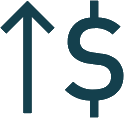
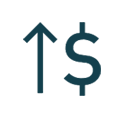
Reference scroll

diff --git a/src/components/MainContent.jsx b/src/components/MainContent.jsx
@@ -1,12 +1,16 @@
-import { useEffect, useState } from "react";
+import { useEffect, useState, useRef } from "react";
 import "../styles/MainContent.css";
 
 import RentalCard from "./RentalCard";
 import SearchBar from "./SearchBar";
+import AscSortIcon from "../assets/asc-sort.png";
+import DescSortIcon from "../assets/desc-sort.png";
 
-const MainContent = ({ apartList, setApartList }) => {
+const MainContent = ({ apartList, setApartList, modifiedID }) => {
   const [searchStr, setSearchStr] = useState();
   const [filteredApts, setFilteredApts] = useState([...apartList]);
+  const [ascSort, setAscSort] = useState(true);
+  const itemRefs = useRef({});
 
   useEffect(() => {
     let tempApts = [...apartList];
@@ -20,10 +24,33 @@ const MainContent = ({ apartList, setApartList }) => {
     setFilteredApts([...tempApts]);
   }, [searchStr, apartList]);
 
+  useEffect(() => {
+    if (modifiedID) {
+      let latestApartment = apartList.find((oneApartment) => {
+        return oneApartment.id === modifiedID;
+      });
+      if (latestApartment && itemRefs.current[latestApartment.id]) {
+        itemRefs.current[latestApartment.id].scrollIntoView({
+          behavior: "smooth",
+          block: "start",
+        });
+      }
+    }
+  }, [modifiedID]);
+
   return (
     <div className="main-content">
       <div className="search-area">
         <SearchBar searchStr={searchStr} setSearchStr={setSearchStr} />
+        <div
+          className="sort-button"
+          style={{
+            backgroundImage: `url(${ascSort ? AscSortIcon : DescSortIcon})`,
+          }}
+          onClick={() => {
+            setAscSort(!ascSort);
+          }}
+        ></div>
       </div>
 
       <div className="main-rental-list">
@@ -34,6 +61,7 @@ const MainContent = ({ apartList, setApartList }) => {
               apartment={apartment}
               apartList={apartList}
               setApartList={setApartList}
+              ref={(el) => (itemRefs.current[apartment.id] = el)}
             />
           );
         })}

diff --git a/src/components/AddNewListing.jsx b/src/components/AddNewListing.jsx
@@ -2,8 +2,7 @@ import React from "react";
 import { useState } from "react";
 import { useNavigate } from "react-router-dom";
 
-const AddNewListing = ({ apartList, setApartList }) => {
-  /*@Teresa : Add all the fields here & change the form too with formData.xyzFieldname & onChange event to handleChange. I have added the correct event below*/
+const AddNewListing = ({ apartList, setApartList, setModifiedID }) => {
   const [formData, setFormData] = useState({
     picture_url: "",
     name: "",
@@ -35,6 +34,7 @@ const AddNewListing = ({ apartList, setApartList }) => {
     formData.id = apartList.length + 2;
 
     setApartList([...apartList, formData]);
+    setModifiedID(formData.id);
     navigate("/");
   }
   return (
@@ -217,6 +217,8 @@ const AddNewListing = ({ apartList, setApartList }) => {
                 type="number"
                 min={1}
                 max={2000}
+                step="0.01"
+                pattern="^\d+(?:\.\d{1,2})?$"
                 id="price"
                 name="price"
                 placeholder="Price per night"
@@ -289,6 +291,8 @@ const AddNewListing = ({ apartList, setApartList }) => {
                 type="number"
                 min={1}
                 max={5}
+                step="0.01"
+                pattern="^\d+(?:\.\d{1,2})?$"
                 id="review_scores_rating"
                 name="review_scores_rating"
                 placeholder="Review Scores Rating"

diff --git a/src/components/SearchBar.jsx b/src/components/SearchBar.jsx
@@ -1,29 +1,20 @@
-import { useState } from "react";
-
 const SearchBar = ({ searchStr, setSearchStr, hasResults }) => {
-  /*@Teresa : implement the search last as I found it challanging to avoid filtering out the main list. Tips below
-  1. take search string as a prop from MainContent
-  2. search string is a state variable in MainContent
-  3. A function in MainContent to - create a Filtered arr from the search string 
-  4. Filtered arr is shown in MainContent but not passed to edit & delete.
-  5. We apply filter again when we render MainContent so may be filter in useEffect*/
-
   return (
-    <div>
-      <input
-        type="text"
-        placeholder="Search"
-        className="search-bar"
-        value={searchStr}
-        onChange={(e) => setSearchStr(e.target.value)}
-      />
-      {/* {!hasResults && searchStr && (
-        <p className="error-message">
-          Nada in this cozy corner—try adjusting!”
-        </p>
-      )} */}
-    </div>
+    <input
+      type="text"
+      placeholder="Search"
+      className="search-bar"
+      value={searchStr}
+      onChange={(e) => setSearchStr(e.target.value)}
+    />
   );
 };
 
 export default SearchBar;
+/*{
+   {!hasResults && searchStr && (
+        <p className="error-message">
+          Nada in this cozy corner—try adjusting!”
+        </p>
+      )} 
+}*/

diff --git a/src/styles/MainContent.css b/src/styles/MainContent.css
@@ -12,6 +12,21 @@
   justify-content: center;
 }
 
+.sort-button {
+  margin-left: 5px;
+  height: 40px;
+  width: 40px;
+  background-repeat: no-repeat;
+  background-size: 40px;
+  border-radius: 10px;
+  background-color: #a2b39c2a;
+  box-shadow: 0 4px 8px 0 rgba(0, 0, 0, 0.2);
+}
+
+.sort-button:hover {
+  transform: scale(1.1);
+}
+
 .search-bar {
   background-image: url("../assets/search.jpg");
   background-repeat: no-repeat;
@@ -344,6 +359,19 @@
     width: 16%;
   }
 
+  .delete-button {
+    background-size: 30px;
+    height: 30px;
+    width: 30px;
+  }
+
+  .edit-button {
+    right: 25px;
+    background-size: 30px;
+
+    height: 30px;
+    width: 30px;
+  }
   .rental-details {
     align-items: center;
     width: 100%;
@@ -390,10 +418,27 @@
   .col-field {
     width: 60%;
   }
+
+  .search-bar {
+    width: 70%;
+  }
 }
 
 /*Tablet Screen*/
 @media screen and (max-device-width: 768px) and (min-width: 426px) {
+  .delete-button {
+    background-size: 25px;
+    height: 25px;
+    width: 25px;
+  }
+
+  .edit-button {
+    right: 20px;
+    background-size: 25px;
+
+    height: 25px;
+    width: 25px;
+  }
   .rental-details {
     align-items: center;
     width: 100%;
@@ -430,6 +475,9 @@
     width: 30%;
   }
   .col-field {
+    width: 70%;
+  }
+  .search-bar {
     width: 70%;
   }
 }

diff --git a/src/App.jsx b/src/App.jsx
@@ -19,6 +19,7 @@ import Footer from "./components/Footer";
 
 function App() {
   const [apartList, setApartList] = useState(ApartmentListings);
+  const [modifiedID, setModifiedID] = useState(0);
 
   return (
     <div className="App">
@@ -31,7 +32,11 @@ function App() {
           <Route
             path="/"
             element={
-              <MainContent apartList={apartList} setApartList={setApartList} />
+              <MainContent
+                apartList={apartList}
+                setApartList={setApartList}
+                modifiedID={modifiedID}
+              />
             }
           />
 
@@ -45,6 +50,7 @@ function App() {
               <AddNewListing
                 apartList={apartList}
                 setApartList={setApartList}
+                setModifiedID={setModifiedID}
               />
             }
           />
@@ -54,6 +60,7 @@ function App() {
               <UpdateListing
                 apartList={apartList}
                 setApartList={setApartList}
+                setModifiedID={setModifiedID}
               />
             }
           />

diff --git a/src/components/RentalCard.jsx b/src/components/RentalCard.jsx
@@ -1,11 +1,11 @@
-import React from "react";
+import { forwardRef } from "react";
 import EditButton from "./EditButton";
 import DeleteButton from "./DeleteButton";
 import { Link } from "react-router-dom";
 
-function RentalCard({ apartment, apartList, setApartList }) {
+const RentalCard = forwardRef(({ apartment, apartList, setApartList }, ref) => {
   return (
-    <div className="rental-card">
+    <div className="rental-card" ref={ref}>
       <Link to={`/rentalDetails/${apartment.id}`}>
         <img
           src={apartment.picture_url}
@@ -34,11 +34,7 @@ function RentalCard({ apartment, apartList, setApartList }) {
       </Link>
 
       <Link to={`/updateListing/${apartment.id}`}>
-        <EditButton
-          id={apartment.id}
-          apartList={apartList}
-          setApartList={setApartList}
-        />
+        <EditButton />
       </Link>
 
       <DeleteButton
@@ -48,6 +44,6 @@ function RentalCard({ apartment, apartList, setApartList }) {
       />
     </div>
   );
-}
+});
 
 export default RentalCard;

diff --git a/src/components/UpdateListing.jsx b/src/components/UpdateListing.jsx
@@ -1,7 +1,7 @@
 import { useEffect, useState } from "react";
 import { useParams, useNavigate } from "react-router-dom";
 
-const UpdateListing = ({ apartList, setApartList }) => {
+const UpdateListing = ({ apartList, setApartList, setModifiedID }) => {
   const { apartmentId } = useParams();
   const [apartmentToUpdate, setApartmentToUpdate] = useState({
     picture_url: "",
@@ -55,6 +55,7 @@ const UpdateListing = ({ apartList, setApartList }) => {
     });
 
     setApartList(updatedApartments);
+    setModifiedID(Number(apartmentId));
 
     navigate("/");
   }
@@ -313,6 +314,8 @@ const UpdateListing = ({ apartList, setApartList }) => {
                 type="number"
                 min={1}
                 max={5}
+                step="0.01"
+                pattern="^\d+(?:\.\d{1,2})?$"
                 id="review_scores_rating"
                 name="review_scores_rating"
                 placeholder="Review Scores Rating"

diff --git a/src/components/AboutUs.jsx b/src/components/AboutUs.jsx
@@ -26,14 +26,14 @@ const AboutUs = () => {
       </div>
       <div className="about-user">
         <h4 className="about-user-name">Teresa García</h4>
-        <Link to="https://github.com/nehais/apartment-rental">
+        <Link to="https://github.com/teresagarcia1985">
           <img
             src={gitHubLogo}
             alt="Git Hub Logo"
             className="abt-git-logo"
           ></img>
         </Link>
-        <Link to="https://linkedin.com/in/neha-builds">
+        <Link to="https://linkedin.com/in/teresa-garcia-16abb970/">
           <img src={linkedInLogo} alt="Git Hub Logo" className="in-logo"></img>
         </Link>
       </div>

diff --git a/src/components/EditButton.jsx b/src/components/EditButton.jsx
@@ -1,16 +1,5 @@
-const EditButton = ({ id, apartList, setApartList }) => {
-  function editRental() {
-    console.log("Edit Clicked");
-  }
-
-  return (
-    <div
-      className="edit-button"
-      onClick={() => {
-        editRental();
-      }}
-    ></div>
-  );
+const EditButton = ({}) => {
+  return <div className="edit-button"></div>;
 };
 
 export default EditButton;

diff --git a/src/App.css b/src/App.css
@@ -16,6 +16,7 @@
   flex-direction: column;
   justify-content: stretch;
   overflow-y: hidden;
+  overflow-x: hidden;
 }
 
 .content {

diff --git a/src/styles/Footer.css b/src/styles/Footer.css
@@ -5,8 +5,8 @@
 }
 
 .git-logo {
-  height: 40px;
-  width: 70px;
+  height: 35px;
+  width: 60px;
   padding-top: 5px;
 }
 
